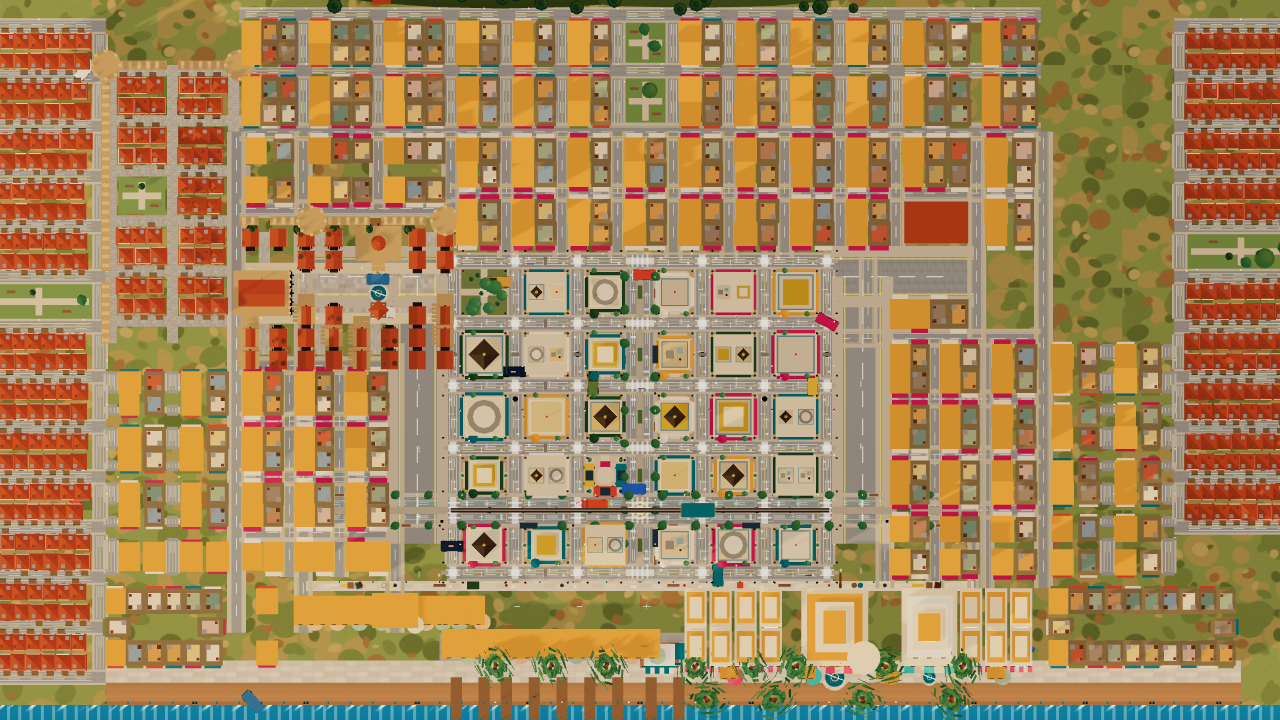
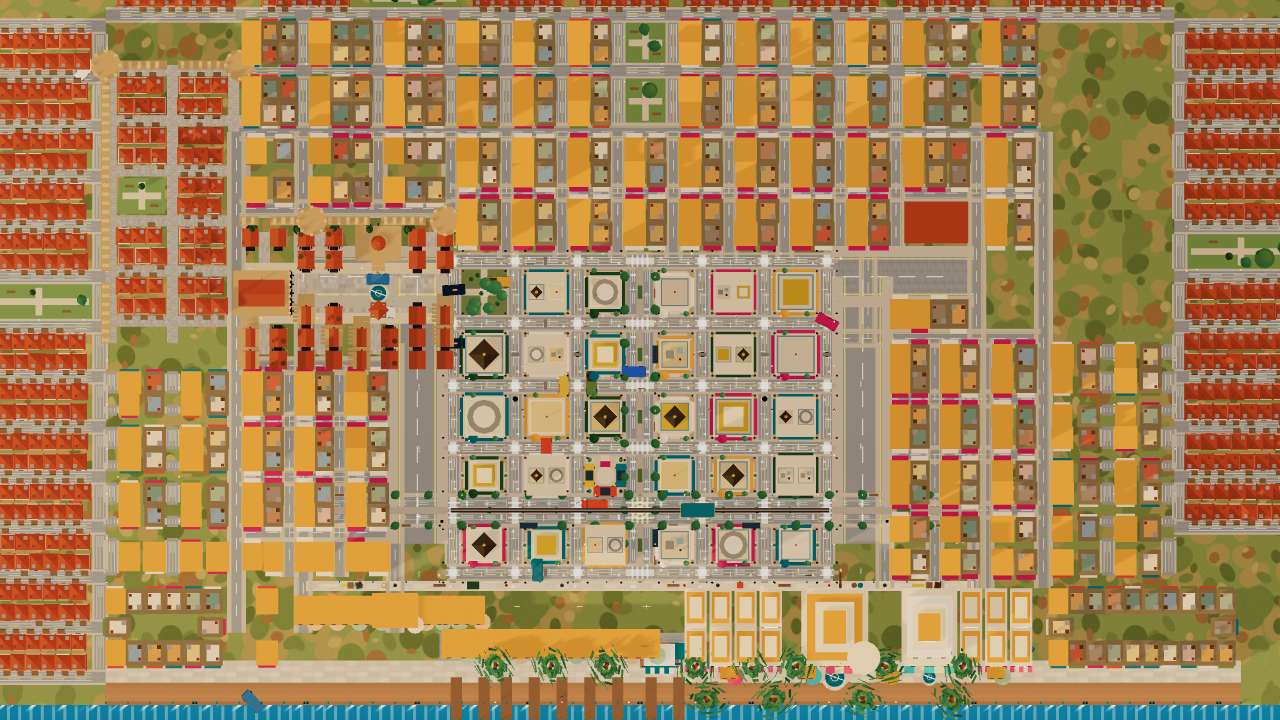
2d north residential + ridges north: 469 residential (target 450+ MET)
- Ridges moved north ~12-16 (every south edge now z <= -106); ground plane extended to z -150; cypress + villas moved north with the near ridge
- North residential (z -105..-90, 18 blocks: west 2, middle 14, east 2): +174 buildings; z -89 street now continuous x -96..96
- Total buildings now 1060 (36 towers + 364 + 86 + 65 + 40 + 469); residential 469 vs 450+ MET
- Draw calls UNCHANGED (whole-city 593, <600) — 174 buildings merged into shared pools
- Tests: zone overlap PASS (4 zones, residential 469/116 road rects, 0 problems); CBD overlap PASS; CBD blocks 30/30
- verify 9 views: city 593, top 436, drive 400 (<450), oblique 632, bay 611; 0 errors, 26 req, 0 external

diff --git a/game/src/blocks.js b/game/src/blocks.js
@@ -697,12 +697,14 @@ export const PROMENADE_EXT_DEF = {
 // E-W streets every 9) so every block holds two rows — the densest
 // the generator does. East x 96..120, z -88..12 (11 blocks); west
 // x -120..-96, z -88..35 (14 blocks); 2 park blocks.
-// The NORTH residential (z -105..-88) is NOT here: the whole north
-// strip sits on the hill ridges (z -90..-128) — the buildings would
-// be buried in the hillside. It comes in 2d, when the ridges move
-// north. The east rect ends at z 12 so its last block stays clear
-// of the quay (z 12.7, x -96..108). No roads.js street crosses these
-// rects, so no gaps.
+// 2d NORTH (z -105..-90): added after the ridges moved north — the
+// whole north strip (x -96..96) is clear ground now. Three rects:
+// west (x -96..-70), middle (x -70..65, N-S streets every ~19),
+// east (x 65..96). The z -89 street segments (x -96..-72, 72..96)
+// are built here so the ring-ext's z -89 (x -72..72) runs continuous
+// across the whole north edge. The east rect ends at z 12 so its last
+// block stays clear of the quay (z 12.7, x -96..108). No roads.js
+// street crosses these rects, so no gaps.
 export const RESIDENTIAL_DEF = {
   id: 'residential', seed: 20261121, style: 'townhouse', floors: [2, 6],
   palette: PALETTE_TOWNHOUSE, shopfronts: false, spacing: 3.2,
@@ -718,21 +720,51 @@ export const RESIDENTIAL_DEF = {
       ns: [{ x: -119, w: 2 }, { x: -97, w: 2 }].map((s) => ({ ...s, kind: 'street' })),
       ew: [-87, -78, -69, -60, -51, -42, -33, -24, -15, -6, 3, 12, 21, 30].map((z) => ({ z, w: 2, kind: 'street' })),
     },
+    {
+      x0: -96, z0: -105, x1: -70, z1: -90,
+      ns: [{ x: -95, w: 2 }, { x: -71, w: 2 }].map((s) => ({ ...s, kind: 'street' })),
+      // z -89 is the ring-ext street (already built) — listed here only
+      // so deriveBlocks makes the second row (z -94..-90); the road
+      // itself is NOT rebuilt (it is in roadsEw only as the outer
+      // segments x -96..-72 / 72..96).
+      ew: [{ z: -104, w: 2 }, { z: -95, w: 2 }, { z: -89, w: 2 }].map((s) => ({ ...s, kind: 'street' })),
+    },
+    {
+      x0: -70, z0: -105, x1: 65, z1: -90,
+      ns: [-69, -50, -31, -12, 7, 26, 45, 64].map((x) => ({ x, w: 2, kind: 'street' })),
+      ew: [{ z: -104, w: 2 }, { z: -95, w: 2 }, { z: -89, w: 2 }].map((s) => ({ ...s, kind: 'street' })),
+    },
+    {
+      x0: 65, z0: -105, x1: 96, z1: -90,
+      ns: [{ x: 66, w: 2 }, { x: 95, w: 2 }].map((s) => ({ ...s, kind: 'street' })),
+      ew: [{ z: -104, w: 2 }, { z: -95, w: 2 }, { z: -89, w: 2 }].map((s) => ({ ...s, kind: 'street' })),
+    },
   ],
-  parks: [4, 15],
+  parks: [4, 15, 33],
   roadsNs: [
     { x: 97, w: 2, kind: 'street', z0: -87, z1: 3 },
     { x: 119, w: 2, kind: 'street', z0: -87, z1: 3 },
     { x: -119, w: 2, kind: 'street', z0: -87, z1: 30 },
     { x: -97, w: 2, kind: 'street', z0: -87, z1: 30 },
+    { x: -95, w: 2, kind: 'street', z0: -104, z1: -95 },
+    { x: -71, w: 2, kind: 'street', z0: -104, z1: -95 },
+    ...[-69, -50, -31, -12, 7, 26, 45, 64].map((x) => ({ x, w: 2, kind: 'street', z0: -104, z1: -95 })),
+    { x: 66, w: 2, kind: 'street', z0: -104, z1: -95 },
+    { x: 95, w: 2, kind: 'street', z0: -104, z1: -95 },
   ],
   roadsEw: [
     ...[-87, -78, -69, -60, -51, -42, -33, -24, -15, -6, 3].map((z) => ({ z, w: 2, kind: 'street', x0: 96, x1: 120 })),
     ...[-87, -78, -69, -60, -51, -42, -33, -24, -15, -6, 3, 12, 21, 30].map((z) => ({ z, w: 2, kind: 'street', x0: -120, x1: -96 })),
+    { z: -104, w: 2, kind: 'street', x0: -96, x1: 96 },
+    { z: -95, w: 2, kind: 'street', x0: -96, x1: 96 },
+    // z -89 segments so the ring-ext's z -89 (x -72..72) runs continuous.
+    { z: -89, w: 2, kind: 'street', x0: -96, x1: -72 },
+    { z: -89, w: 2, kind: 'street', x0: 72, x1: 96 },
   ],
   lanes: [
     { name: 'res-east', x0: 97, z0: -87, x1: 119, z1: 3, speed: 6 },
     { name: 'res-west', x0: -119, z0: -87, x1: -97, z1: 30, speed: 6 },
+    { name: 'res-north', x0: -95, z0: -104, x1: 95, z1: -89, speed: 6 },
   ],
   pedPaths: [
     { a: { x: 98.2, z: -87 }, b: { x: 98.2, z: 3 } },
@@ -741,5 +773,7 @@ export const RESIDENTIAL_DEF = {
     { a: { x: -98.2, z: -87 }, b: { x: -98.2, z: 30 } },
     { a: { x: 97, z: -42 }, b: { x: 119, z: -42 } },
     { a: { x: -119, z: -42 }, b: { x: -97, z: -42 } },
+    { a: { x: -95, z: -102.8 }, b: { x: 95, z: -102.8 } },
+    { a: { x: -95, z: -93.8 }, b: { x: 95, z: -93.8 } },
   ],
 };

diff --git a/game/src/city.js b/game/src/city.js
@@ -172,26 +172,31 @@ function buildHills() {
     geo.translate(x, y, z);
     parts.push(colored(geo, color));
   };
+  // 2d: the ridges moved NORTH (~12-16) so the north residential ring
+  // (z -105..-90) sits on clear ground, not on the hillside. Every
+  // ridge's south edge is now at z <= -106. The far ridge is untouched
+  // (its south edge was already -110).
   ridge(0x8fa05e, -40, -2, -128, 70, 22, 18);
-  ridge(0x7f9052, 30, -3, -120, 80, 26, 20);
-  ridge(0x6f8048, -70, -1, -112, 50, 16, 14);
-  ridge(0x5f703e, 10, -2, -102, 55, 14, 12);
-  ridge(0x4f6034, -25, -1, -98, 45, 9, 8);
+  ridge(0x7f9052, 30, -3, -132, 80, 26, 20);
+  ridge(0x6f8048, -70, -1, -124, 50, 16, 14);
+  ridge(0x5f703e, 10, -2, -120, 55, 14, 12);
+  ridge(0x4f6034, -25, -1, -116, 45, 9, 8);
   // Side ridges so the horizon is not flat on the east / west (A).
-  ridge(0x7f9052, -118, -2, -108, 45, 18, 16);
-  ridge(0x7f9052, 118, -2, -108, 45, 18, 16);
+  ridge(0x7f9052, -118, -2, -124, 45, 18, 16);
+  ridge(0x7f9052, 118, -2, -124, 45, 18, 16);
   // Cypress silhouettes + villa dots on the near ridge, behind the wall.
+  // 2d: moved north with the near ridge (z -106..-112, was -90..-96).
   const rnd = seededRandom(99);
   for (let i = 0; i < 22; i++) {
     const x = -55 + rnd() * 110;
     const t = makeTree('cypress', 1.6 + rnd() * 1.2);
-    t.position.set(x, 4 + rnd() * 2, -90 - rnd() * 6);
+    t.position.set(x, 4 + rnd() * 2, -106 - rnd() * 6);
     g.add(t);
   }
   for (let i = 0; i < 8; i++) {
     const x = -48 + i * 19 + rnd() * 4;
     const y = 4 + rnd() * 2;
-    const z = -92 - rnd() * 4;
+    const z = -108 - rnd() * 4;
     parts.push(colored(xform(new THREE.BoxGeometry(3, 2, 2.5), x, y + 1, z), 0xf5efe2));
     parts.push(colored(xform(new THREE.BoxGeometry(3.3, 0.3, 2.8), x, y + 2.1, z), 0xb4552d));
   }
@@ -310,12 +315,14 @@ export function buildDistrict4() {
   const tickers = [];
 
   // --- ground base (Mediterranean grass / dry grass / dirt, A) ---
+  // 2d: extended north to z -150 (was -120) so the ground covers the
+  // ridges after they move north for the north residential ring.
   const ground = new THREE.Mesh(
-    new THREE.PlaneGeometry(260, 200),
+    new THREE.PlaneGeometry(260, 240),
     new THREE.MeshStandardMaterial({ map: groundTexture(), roughness: 1, flatShading: true }),
   );
   ground.rotation.x = -Math.PI / 2;
-  ground.position.set(0, 0, -20);
+  ground.position.set(0, 0, -30);
   ground.receiveShadow = true;
   group.add(ground);
 
